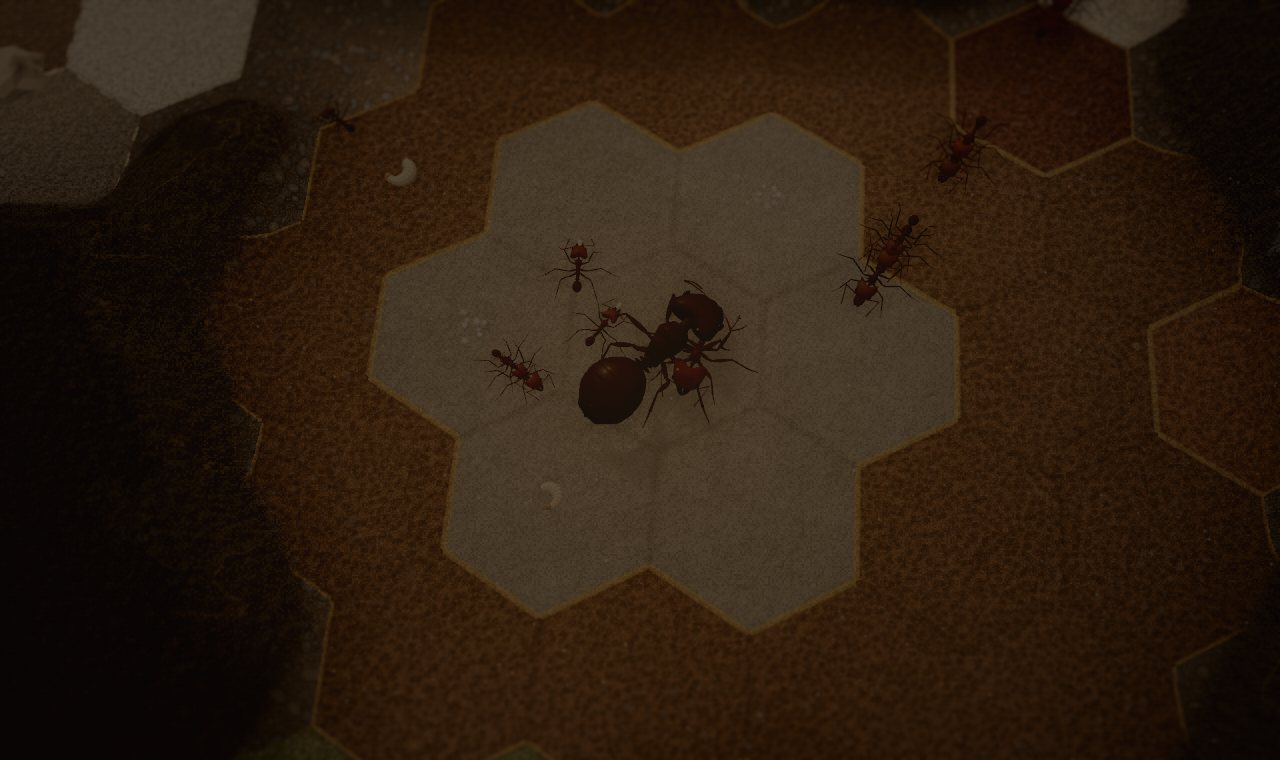
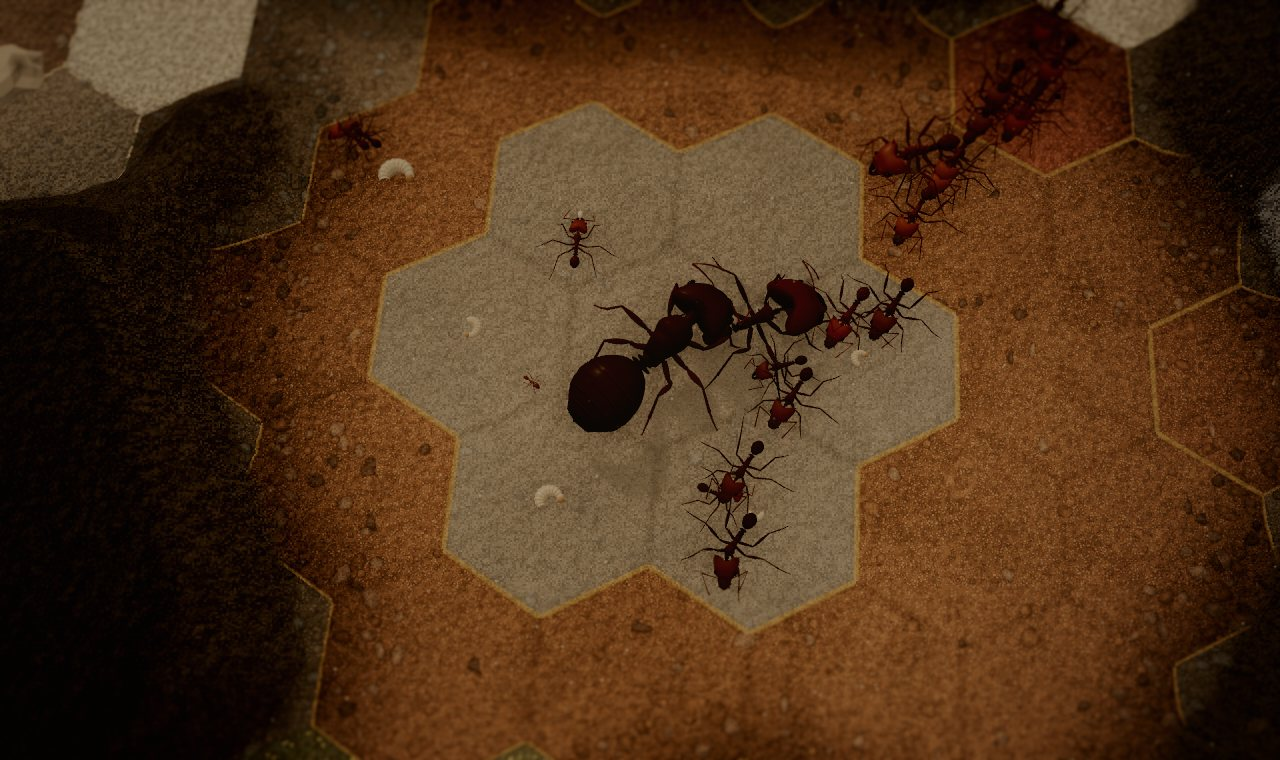
Underground realism round 3: soil crumbs and angular stones, crumbly walls, grainier tiles, thinner group outlines; design notes; shots
After a blind review of round 1-2 (the new renders preferred in 8 of 8 pairs; photo-likeness 4.3/10 vs 2):
pebbles become soil-coloured crumbs and a few angular stones with irregular outlines; walls crumbly rather than
fibrous; the queen's and food tiles keep the floor's grain; group outlines thinner; a little soil shows in the
dark beyond the dug floor.

Claude-Session: https://claude.ai/code/session_01MHhvayxRSszQFax75UpbXx

diff --git a/src/render/nest/nestTerrain.ts b/src/render/nest/nestTerrain.ts
@@ -634,13 +634,16 @@ bumpH += -crev*0.35 + (1.0 - ag.x)*0.15;
 vec3 wp = worley(gp*0.55 + vec2(vnoise(gp*0.3), vnoise(gp*0.3+7.0))*0.8);
 float pr = 0.26 + 0.2*h21(vec2(wp.z*31.0));
 float pebDens = mix(0.94, 0.3, edgeK);
-float isPeb = step(pebDens, wp.z) * smoothstep(pr + 0.05, pr - 0.04, wp.x);
-float dome = clamp(1.0 - wp.x/max(pr,0.01), 0.0, 1.0);
-vec3 pebC = mix(vec3(0.30,0.30,0.30), vec3(0.18,0.175,0.17), h21(vec2(wp.z*91.0)));
-pebC = mix(pebC, vec3(0.36,0.31,0.25), step(0.7, h21(vec2(wp.z*13.0))));
+// (round 3, after a blind review: soil crumbs and a few angular stones, not round blue-grey river pebbles)
+float wpx = wp.x + (vnoise(gp*2.4 + wp.z*17.0) - 0.5)*0.14;
+float isPeb = step(pebDens, wp.z) * smoothstep(pr + 0.05, pr - 0.04, wpx);
+float dome = clamp(1.0 - wpx/max(pr,0.01), 0.0, 1.0);
+float pk = h21(vec2(wp.z*13.0));
+vec3 pebC = pk < 0.55 ? mix(vec3(0.26,0.205,0.15), vec3(0.19,0.15,0.11), h21(vec2(wp.z*91.0)))
+          : (pk < 0.85 ? mix(vec3(0.31,0.30,0.28), vec3(0.22,0.21,0.2), h21(vec2(wp.z*91.0))) : vec3(0.12,0.11,0.1));
 pebC *= 0.5 + 0.65*sqrt(dome);
 // a pebble's contact shadow on the floor round it
-floorC *= 1.0 - 0.35*step(pebDens, wp.z)*smoothstep(pr + 0.16, pr + 0.02, wp.x)*(1.0 - isPeb);
+floorC *= 1.0 - 0.35*step(pebDens, wp.z)*smoothstep(pr + 0.16, pr + 0.02, wpx)*(1.0 - isPeb);
 floorC = mix(floorC, pebC, isPeb);
 bumpH += isPeb * sqrt(dome) * 1.4;
 // diggers' pellets (balls of ~160 grains, ~1 mm): scattered on the floor, most along the walls
@@ -664,16 +667,17 @@ surfRough = mix(0.9, 0.7, damp) - quartz*0.35;
 
 // ---- walls: compacted soil the diggers have scraped smooth, short mandible scrapes, grains and roots in it
 vec3 wallC = mix(vec3(0.07,0.057,0.043), vec3(0.12,0.097,0.07), fbm(gp*0.12));
-float scrape = vnoise(vec2(gp.x*1.1 + gp.y*0.9, gp.y*1.1 - gp.x*0.7) * 1.3);
-wallC *= 0.8 + 0.3*scrape;
+float scrape = vnoise(gp * 1.3);
+vec3 wcr = worley(gp*1.1 + 5.0);
+wallC *= (0.8 + 0.3*scrape) * (0.85 + 0.25*smoothstep(0.5, 0.1, wcr.x)) * (1.0 - 0.3*smoothstep(0.08, 0.0, wcr.y - wcr.x));
 // mandible scrapes: short shallow grooves, a few directions, in patches
 float sa = fbm(gp*0.4 + 21.0) * 6.2832;
 vec2 sdir = vec2(cos(sa), sin(sa));
 float grooves = smoothstep(0.8, 1.0, abs(sin(dot(gp, sdir)*7.0))) * smoothstep(0.45, 0.7, vnoise(gp*1.4 + 2.0));
 wallC *= 1.0 - grooves*0.22;
 wallC = mix(wallC, gC*0.45, gIn*0.35);
-float roots = smoothstep(0.012, 0.003, abs(fbm(gp*0.08 + 11.0) - 0.5));
-wallC = mix(wallC, vec3(0.24,0.18,0.12), roots*0.6);
+float roots = smoothstep(0.008, 0.002, abs(fbm(gp*0.06 + 11.0) - 0.5)) * step(0.6, fbm(gp*0.03 + 4.0));
+wallC = mix(wallC, vec3(0.24,0.18,0.12), roots*0.45);
 wallC *= 1.0 - 0.2*damp;
 bumpH += scrape*0.4 + roots*0.5 - grooves*0.25;
 
@@ -746,7 +750,7 @@ vec3 col = floorC * floorM + wallC * wallM + topC * topM;
 float covered = floorM + wallM + topM;
 col /= max(covered, 1e-3);
 // darkness grows away from dug ground (soil top and walls); stones stay readable in it
-float darkK = mix(0.12, 1.0, wideL*wideL);
+float darkK = mix(0.17, 1.0, wideL*wideL);
 darkK = mix(darkK, max(darkK, 0.62), stoneM * topM);
 col *= mix(1.0, darkK, 1.0 - floorM);
 
@@ -780,32 +784,36 @@ if (htype > 0.5 && htype < 10.5) {
     vec3 silt = mix(vec3(0.30,0.30,0.29), vec3(0.40,0.39,0.36), fbm(gp*0.5)) * (0.9 + 0.12*vnoise(gp*6.0));
     silt = mix(silt, gC*0.9, gIn*0.18);
     float trod = smoothstep(0.3, 0.8, fbm(gp*0.18 + 2.0));
-    tc = mix(col*0.7, silt, 0.82) * (0.94 + 0.08*trod);
+    // (round 3: the floor's grains and crumbs show through the silt — not a smooth slab)
+    tc = mix(col, silt, 0.6) * (0.94 + 0.08*trod);
     // termites: the royal chamber is a smooth, dense carton cell, not silk
     if (uCarton > 0.5 && uCarton < 1.5) tc = mix(tc, vec3(0.075,0.045,0.026) * (0.8 + 0.4*fbm(gp*0.9)) + vec3(0.03,0.02,0.01)*clamp(strands,0.0,1.0), 0.85);
     // sickle-jaws: a smooth, dense cell of damp soil
     if (uCarton > 1.5) tc = mix(tc, vec3(0.085,0.058,0.036) * (0.8 + 0.4*fbm(gp*0.9)), 0.85);
     surfRough = mix(surfRough, 0.6 - 0.1*trod, tileK);
-    bumpH = bumpH*0.35 + gIn*0.08;
+    bumpH = bumpH*0.6;
   } else if (htype < 2.5) {
     // brood tile: shallow brood pockets pressed into the packed floor, its soil washed with the caste's colour (the
     // brood itself lies in them, tileDecor); realism pass 2026-11-02: less of a painted pattern, more soil
+    // (round 2: the caste colour a wash over the soil — its grains and crumbs still show — and the pockets shallow
+    // dips, not a printed pattern)
     vec3 cw = worley(gp * (0.9 + 0.1*hlevel));
     float pit = smoothstep(0.62, 0.12, cw.x);
     float rim = smoothstep(0.05, 0.0, cw.y - cw.x);
-    vec3 soilT2 = mix(col, gC, gIn*0.3);
-    tc = mix(soilT2, tint * (0.6 + 0.3*vnoise(gp*1.7)), 0.62) * (1.0 - pit*0.35);
-    tc += tint * rim * 0.12;
+    float tintL = dot(tint, vec3(0.3, 0.5, 0.2)) + 1e-3;
+    vec3 wash = col * mix(vec3(1.0), tint / tintL, 0.55) * (0.95 + 0.25*tintL);
+    tc = mix(col, wash, 0.8) * (1.0 - pit*0.18);
+    tc *= 1.0 + rim*0.06;
     tc = mix(tc, tc*1.3 + vec3(0.06,0.04,0.0), step(1.5, hlevel) * step(0.92, cw.z) * 0.6); // upgraded: bright flecks
-    bumpH += -pit*0.7 + rim*0.3;
+    bumpH = bumpH*0.8 - pit*0.45 + rim*0.15;
     surfRough = mix(surfRough, 0.82, tileK);
   } else if (htype < 3.5) {
     // food store: a dry, swept store floor stained olive by what is kept on it, honeydew beads catching the light
     // (the stores themselves lie on it, tileDecor)
     vec3 base = mix(vec3(0.17,0.20,0.10), vec3(0.26,0.29,0.14), fbm(gp*0.5));
-    base = mix(base, gC*0.8, gIn*0.25);
+    base = mix(col, base * (dot(col, vec3(0.33)) / 0.2 * 0.6 + 0.4), 0.55);
     vec3 mw = worley(gp*1.6);
-    tc = base * (0.78 + 0.32*smoothstep(0.6, 0.1, mw.x));
+    tc = base * (0.85 + 0.25*smoothstep(0.6, 0.1, mw.x));
     float bead = step(0.86, mw.z) * smoothstep(0.32, 0.12, mw.x);
     tc = mix(tc, vec3(0.75,0.62,0.25), bead*0.8);
     surfRough = mix(surfRough, mix(0.8, 0.25, bead), tileK);
@@ -907,9 +915,9 @@ if (hedges > 0.5 && floorM > 0.2) {
   float ang = atan(hl.y, hl.x);
   float sector = mod(floor((ang + 0.5235988) / 1.0471976 + 0.5), 6.0);
   float on = bitOf(hedges, sector);
-  float line = on * smoothstep(0.55, 0.15, edgeProx) * floorM;
+  float line = on * smoothstep(0.4, 0.1, edgeProx) * floorM;
   vec3 oc = uMarkerCols[int(clamp(hout, 0.0, 6.0))];
-  col = mix(col, oc, line*0.85);
+  col = mix(col, oc, line*0.75);
 }
 // grid overlay (placement mode)
 if (uGrid > 0.5) {

diff --git a/DESIGN.md b/DESIGN.md
@@ -77,7 +77,10 @@ be deterministic and change the simulation only through commands.** That means:
   walk up the flower and come out of one of the holes (and the reverse). Digging never
   makes another entrance (since 2026-11-01).
 * The nest hex grid's radius scales with the species (≈ 3 workers wide; see 3.7),
-  so ants stay at real size while tile counts are the same for every species.
+  so ants stay at real size while tile counts are the same for every species: R =
+  1.5 × the basic worker's length × `NEST_HEX_SCALE`, within 5–11 mm × it (`hexRadiusFor`;
+  the scale was 1.25 from 2026-11-01, **1.10** since 2026-11-02 at the user's request).
+  A save keeps the hex size it was made with.
 
 ## 3. Simulation core
 
@@ -720,14 +723,18 @@ Style switches to replace (`MapStyle`, `terrain.ts:5`): `terrain.ts` (relief, co
 
 * Two scenes, both seen from above with the same top-down camera rig: **surface**
   (sun, hemisphere light, fog, dappled canopy light, grass, litter props) and
-  **nest** (warm low-angle golden key light, pooled light over dug floor, deep
-  shadow in undug soil). Each has its own colour grade. The transition is a
+  **nest** (a warm-white low-angle key light, 0xffdcb4 — orange until the 2026-11-02
+  realism pass —, pooled light over dug floor, deep shadow in undug soil). Each has its own colour grade. The transition is a
   camera dive into the entrance hole and down the ramp.
 * **Nest terrain** (`render/nest/`): a chunked heightfield built from a signed
   distance field of the dug raster (blurred for organic contours): undug soil is
   a raised, dark, crumbly plateau; tunnel walls slope and round down to a
-  sunken packed-earth floor with pebble drifts along wall bases, root fibres
-  and debris. Baked cavity occlusion + SSAO darken wall feet; a blurred
+  sunken packed-earth floor. Since the realism pass (2026-11-02,
+  `docs/realism/underground.md`) the soil is drawn at the ants' scale: sand grains
+  (0.2–0.5 mm; quartz, feldspar, dark and iron-stained grains) in a neutral brown
+  silt-clay matrix, ~1 mm crumbs softened where ants walk, the diggers' pellets and soil
+  crumbs and stones with contact shadows along the wall feet, damp darker patches; walls
+  are crumbly compacted soil with mandible scrapes and the odd root. Baked cavity occlusion + SSAO darken wall feet; a blurred
   "openness" light map makes warm light pool in open areas and fall off down
   tunnels. Dust motes drift in the air.
   - **Buried stones** (undiggable hexes; user note 2026-10-25: hard to tell from
@@ -736,11 +743,11 @@ Style switches to replace (`MapStyle`, `terrain.ts:5`): `terrain.ts` (relief, co
     the warm key light so they read as neutral grey, and kept at least 62 % lit
     in the dark far from the dug area, where diggable soil fades to near black.
 * **Tile floors**: drawn in the floor shader from a per-hex data texture (type,
-  caste colour, level, group outline colour). Original procedural looks: queen
-  = pale blue-grey silk mat; worker brood = ochre cell pits; soldier brood =
-  red-brown ridged cells; major = dark crimson large pits; minim = pale orange;
-  food storage = mossy green with stored morsels and honeydew beads; fungus
-  garden = spongy white comb. Group outlines are drawn on hex edges bordering
+  caste colour, level, group outline colour). Since the realism pass they are the soil
+  first: queen = the floor plastered with smoothed pale silt (grains showing; was a
+  silk mat); brood = the soil washed with the caste's colour, shallow brood pockets in it;
+  food storage = the floor stained olive, honeydew beads; fungus garden = spongy white
+  comb; the stored food and the brood lie on them (`tileDecor`). Group outlines are drawn on hex edges bordering
   another group, coloured by the assigned marker. Placement ghost hex, grid
   overlay and active-tile particles (spores over fungus, shimmer over brood).
 * Post-processing (quality dependent): GTAO ambient occlusion, gentle bloom,
